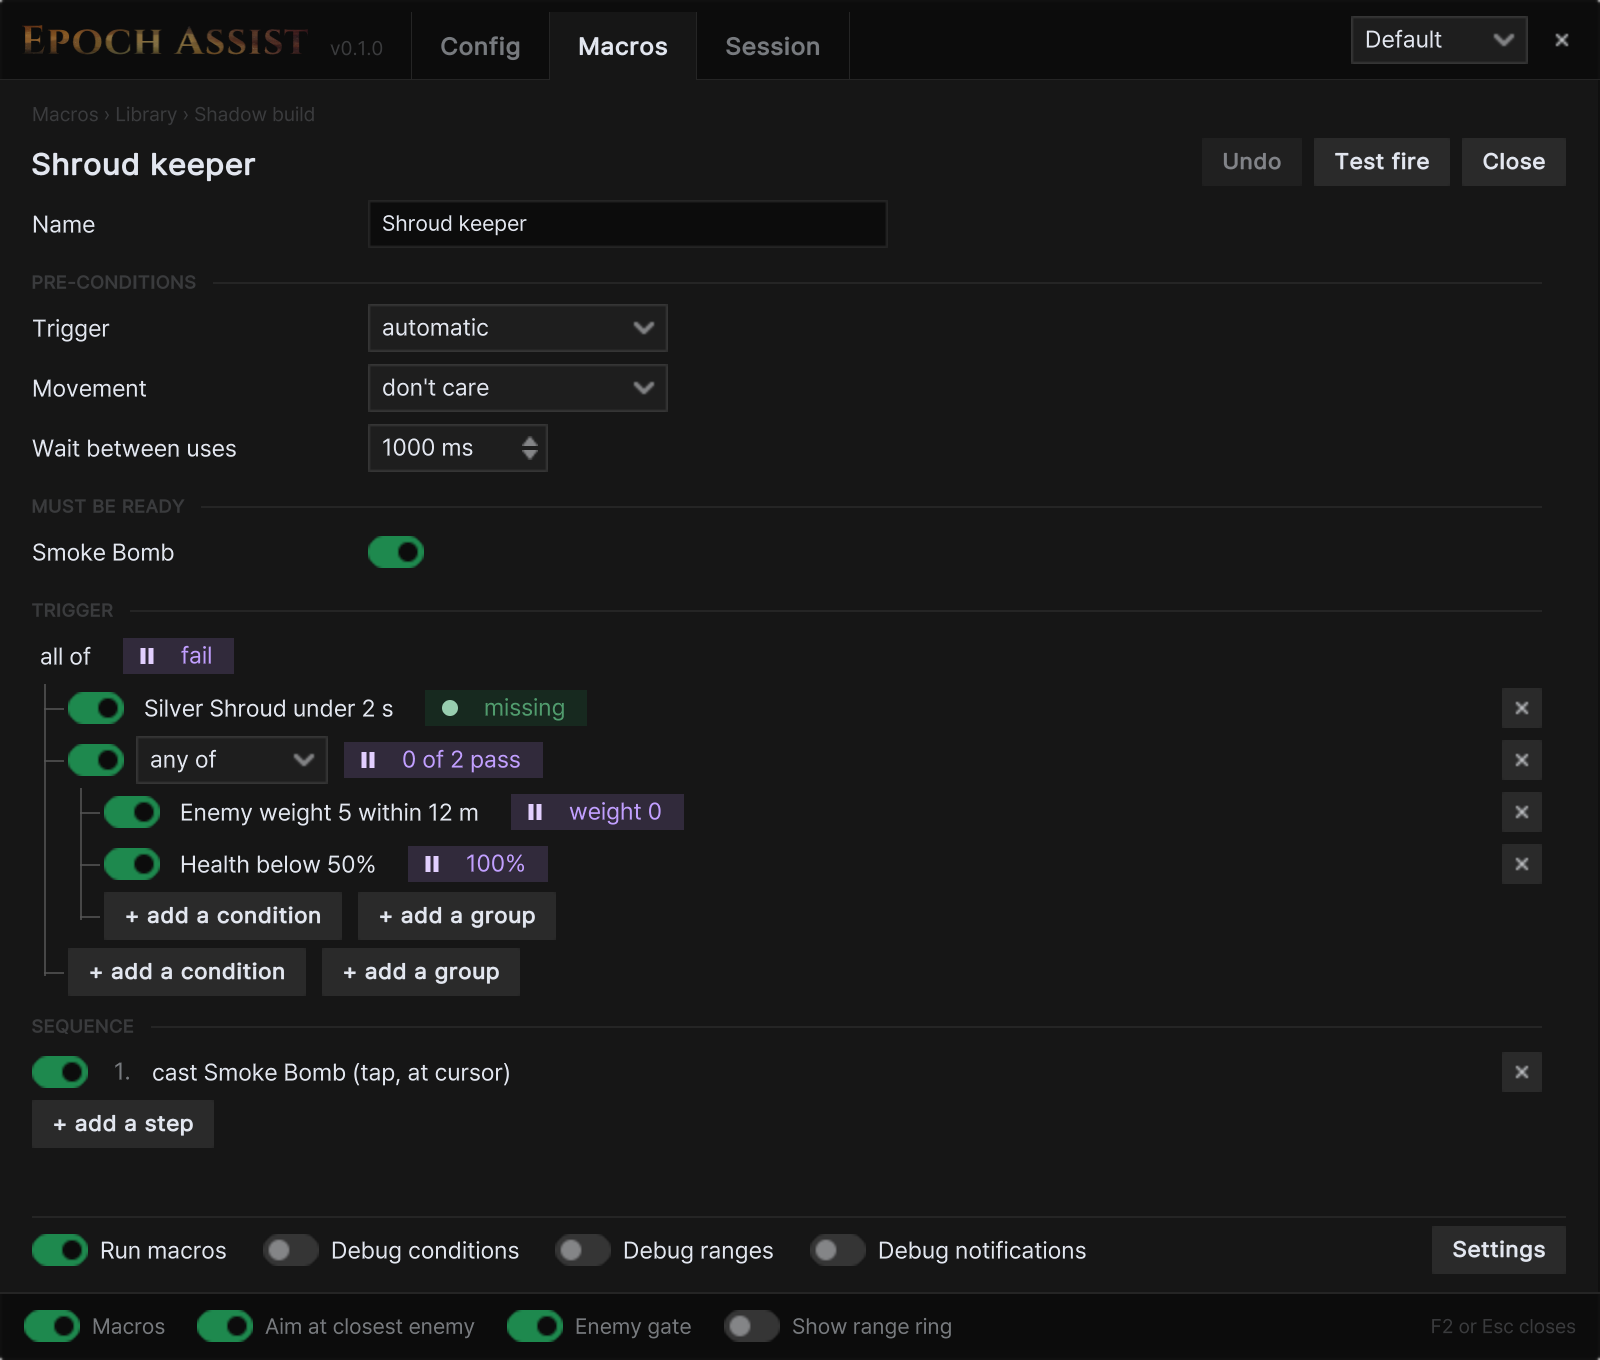
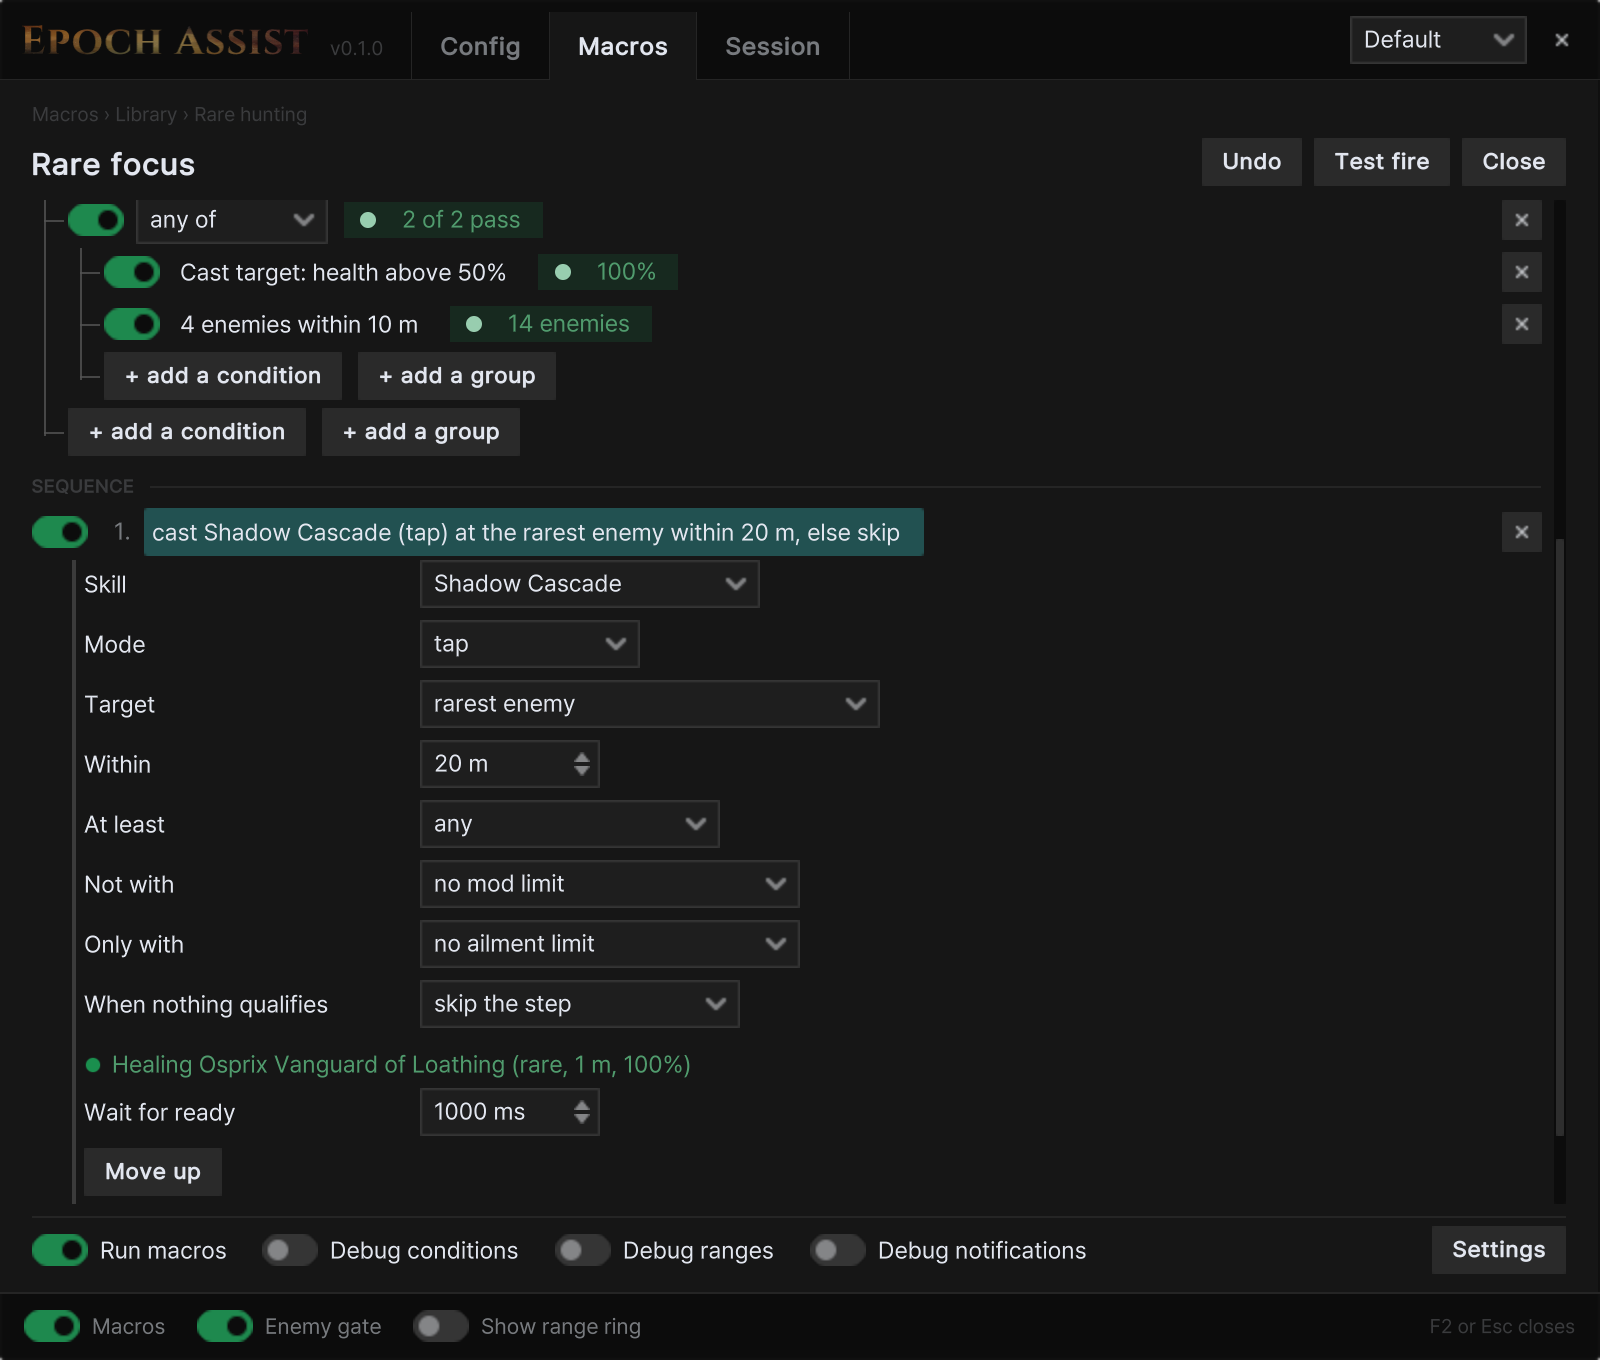
docs(nexus): page shows macro targets and the shared target

diff --git a/nexus/media/README.md b/nexus/media/README.md
@@ -25,7 +25,8 @@ is drawn (`tools/shot.sh …`; shots land in `UserData/EpochAssist/dev/shots/`):
 |---|---|---|
 | `logo` | The nebula wordmark, the page's title (not a screenshot) | a copy of `src/Ui/Theme/Assets/logo-wordmark@4x.png` |
 | `macros` | Macros › Library with Slots, Potions and a filled-out example set (made for the shot, removed after; slots 1 and 5 ticked) | `menu open macros/library/library`, `wait 90`, `shot menu macros matte` |
-| `macro-editor` | One macro's editor with an all-of tree, a nested any-of group and live values | `macro edit <set>/<macro>`, `wait 90`, `shot menu macro-editor matte` |
+| `macro-editor` | One macro's editor with an all-of tree, a nested any-of group and live values, and its cast step open on its Target rows with a live pick (near a pack; scrolled to the bottom, then one notch up) | `macro edit <set>/<macro>`, `wait 90`, `shot menu macro-editor matte` |
+| `shared-target` | Macros › Library › Slots › Shared Conditions: the enemy gate and the Shared target, set for the shot to the rarest enemy within 15 m, magic or better (near a pack so its live pick shows; put back after) | `set SlotTargets {"v":1,"shared":{"pick":"rarest","range":15,"minRarity":"magic","else":"cursor"}}`, `macro edit slots/every`, `wait 40`, `shot menu shared-target matte`, `set SlotTargets {"v":1}` |
 | `hud` | The mini HUD with its quick toggles open (slots 1 and 3 ticked for the shot) | `run autocast.slot.1`, `run autocast.slot.3`, `hud panel open`, `wait 30`, `shot hud hud matte`, `hud panel close`, the two slots off again |
 | `profiles` | Config › General › Profiles | `menu open combat/general/profiles`, `wait 90`, `shot menu profiles matte` |
 | `appearance` | Config › General › Interface › Appearance | `menu open combat/general/interface/appearance`, `wait 90`, `shot menu appearance matte` |
